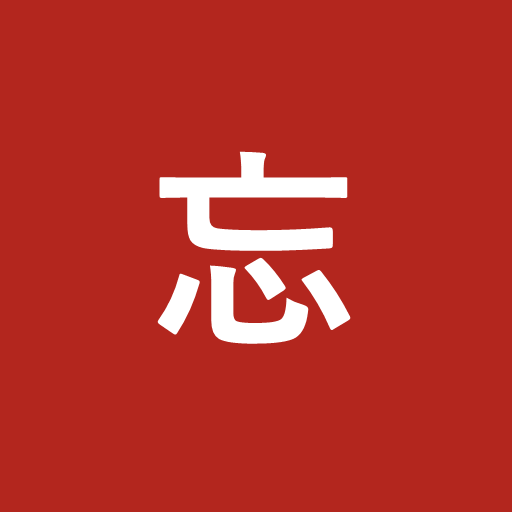
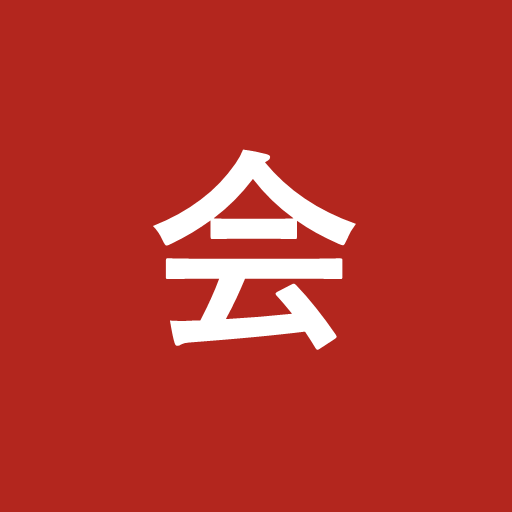
参加管理PWA: イベント名をシートで設定できるようにし、名称を汎用化
- 「開催情報」シートの「イベント名」をタイトル・共有テキストに反映（空なら「参加管理」）
- ホーム画面のアプリ名を「参加管理」、アイコンを「会」に変更
- 別のイベントで使うときの手順（新しいスプレッドシートに切り替え）をREADMEに追加

Changed region(s): [[0.2812, 0.2812, 0.6875, 0.6875]]

diff --git a/app.js b/app.js
@@ -25,7 +25,7 @@ const el = {
   toast: $('toast'),
 };
 
-let state = { members: [], info: [] };
+let state = { members: [], info: [], eventName: '' };
 let lastFetched = 0;
 
 // ---- 端末に保存する値（保存できない環境でも動くように try で包む） ----
@@ -160,13 +160,23 @@ function classOptions(selected) {
     .join('');
 }
 
+// イベント名は「開催情報」シートの「イベント名」で変えられる
+const eventLabel = () => state.eventName || '参加管理';
+
 function render() {
+  renderTitle();
   renderInfo();
   renderTabs();
   renderClassFilter();
   renderCall();
   renderAttend();
   renderMembers();
+}
+
+function renderTitle() {
+  const title = state.eventName ? `${state.eventName} 参加管理` : '参加管理';
+  $('app-title').textContent = title;
+  document.title = title;
 }
 
 function renderInfo() {
@@ -439,7 +449,7 @@ function shareText() {
   if (attendFilter) {
     const { key, status } = attendFilter;
     const list = members.filter(m => statusOf(m, key) === status);
-    lines.push(`【忘年会】${scope}${PARTY_LABEL[key]}・${status}（${list.length}人）`);
+    lines.push(`【${eventLabel()}】${scope}${PARTY_LABEL[key]}・${status}（${list.length}人）`);
     if (status === '参加') {
       const adults = sum(list, `${key}Adults`);
       const kids = sum(list, `${key}Kids`);
@@ -455,7 +465,7 @@ function shareText() {
       });
     });
   } else {
-    lines.push(`【忘年会 参加状況】${scope}`.trim());
+    lines.push(`【${state.eventName ? `${state.eventName} ` : ''}参加状況】${scope}`.trim());
     ['first', 'second'].forEach(key => {
       const joined = members.filter(m => statusOf(m, key) === '参加');
       const total = joined.length + sum(joined, `${key}Adults`) + sum(joined, `${key}Kids`);

diff --git a/index.html b/index.html
@@ -5,8 +5,8 @@
   <meta name="viewport" content="width=device-width, initial-scale=1, viewport-fit=cover">
   <meta name="theme-color" content="#b3261e">
   <meta name="apple-mobile-web-app-capable" content="yes">
-  <meta name="apple-mobile-web-app-title" content="忘年会">
-  <title>忘年会 参加管理</title>
+  <meta name="apple-mobile-web-app-title" content="参加管理">
+  <title>参加管理</title>
   <link rel="manifest" href="manifest.json">
   <link rel="icon" href="icon-192.png">
   <link rel="apple-touch-icon" href="icon-192.png">
@@ -14,7 +14,7 @@
 </head>
 <body>
   <header class="app-header">
-    <h1>忘年会 参加管理</h1>
+    <h1 id="app-title">参加管理</h1>
     <button id="refresh-btn" class="icon-btn" type="button" aria-label="更新">⟳</button>
   </header>
 

diff --git a/sw.js b/sw.js
@@ -1,5 +1,5 @@
 // 画面ファイルはネット優先・失敗時はキャッシュ。GAS への通信はキャッシュしない
-const CACHE = 'bonenkai-v5';
+const CACHE = 'bonenkai-v6';
 const ASSETS = ['./', 'index.html', 'style.css', 'app.js', 'config.js', 'manifest.json', 'icon-192.png', 'icon-512.png'];
 
 self.addEventListener('install', e => {

diff --git a/README.md b/README.md
@@ -1,9 +1,10 @@
-# 忘年会 参加管理（PWA ＋ スプレッドシート）
+# イベント参加管理（PWA ＋ スプレッドシート）
 
-スマホで声掛け状況と参加可否（一次会・二次会）を管理する PWA。データは Google スプレッドシートに保存され、GAS（Google Apps Script）が中継する。
+同窓会・忘年会などのイベントで、声掛け状況と参加可否（一次会・二次会）をスマホで管理する PWA。データは Google スプレッドシートに保存され、GAS（Google Apps Script）が中継する。
+イベント名は「開催情報」シートの「イベント名」で変えられる（画面タイトル・共有テキストに反映）。
 
 ```
-PWA（GitHub Pages） ⇄ GAS（Webアプリ） ⇄ スプレッドシート
+PWA（Vercel: https://bonenkai-pwa.vercel.app/） ⇄ GAS（Webアプリ） ⇄ スプレッドシート
 ```
 
 ## セットアップ
@@ -12,7 +13,7 @@ PWA（GitHub Pages） ⇄ GAS（Webアプリ） ⇄ スプレッドシート
 1. Google ドライブで新しいスプレッドシートを作成する
 2. 「拡張機能 > Apps Script」を開き、`gas/Code.gs` の内容を貼り付けて保存する
 3. 関数 `setup` を選んで「実行」する（初回は権限の承認が必要）
-   - 「声掛け」「参加管理」「開催情報」の3シートが作られる
+   - 「声掛け」「参加管理」「開催情報」「変更履歴」のシートが作られる
 4. 「デプロイ > 新しいデプロイ」から次の設定でデプロイする
    - 種類：ウェブアプリ
    - 次のユーザーとして実行：自分
@@ -21,7 +22,7 @@ PWA（GitHub Pages） ⇄ GAS（Webアプリ） ⇄ スプレッドシート
 
 ### 2. PWA
 1. `config.js` の `GAS_URL` に、手順 1-5 の URL を貼り付ける
-2. このフォルダを GitHub Pages で公開する
+2. このフォルダを Vercel などで公開する
 3. 公開 URL をメンバーに共有する。スマホでは「ホーム画面に追加」するとアプリとして使える
 
 ### 3. スプレッドシートの共有
@@ -29,6 +30,18 @@ PWA（GitHub Pages） ⇄ GAS（Webアプリ） ⇄ スプレッドシート
 
 ## 開催情報の編集
 スプレッドシートの「開催情報」シートの「内容」列に書く。空欄の項目は画面に表示されない。項目は行を追加して増やせる。
+「イベント名」（例：同窓会）は画面上部の情報欄には出さず、タイトルと共有テキストに使う。空欄なら「参加管理」とだけ表示する。
+
+## 別のイベントで使うとき（前回のデータは残す）
+前回のスプレッドシートはそのまま残し、新しいスプレッドシートに切り替える。
+
+1. 新しいスプレッドシートを作り、「セットアップ 1.」の手順（Code.gs の貼り付け → `setup` 実行 → 新しいデプロイ）で新しい GAS の URL を発行する
+2. 新しいスプレッドシートの「開催情報」に「イベント名」（例：忘年会）と日時・場所などを書く
+3. `config.js` の `GAS_URL` を新しい URL に差し替えて、commit → `git subtree push --prefix=bonenkai bonenkai main` で反映する
+4. メンバーは「まとめて追加」で登録し直す（前回のスプレッドシートの「声掛け」シートの名前列をコピーして使える）
+5. 前回の GAS は、不要なら「デプロイを管理」からアーカイブして外部から書き換えられないようにする
+
+公開 URL は同じなので、メンバーはホーム画面のアプリをそのまま使える。
 
 ## 画面の動作テスト
 GAS の代わりに fetch をモックし、`app.js` を jsdom 上で動かして主な操作を確認する（`tests/app.test.js`）。
